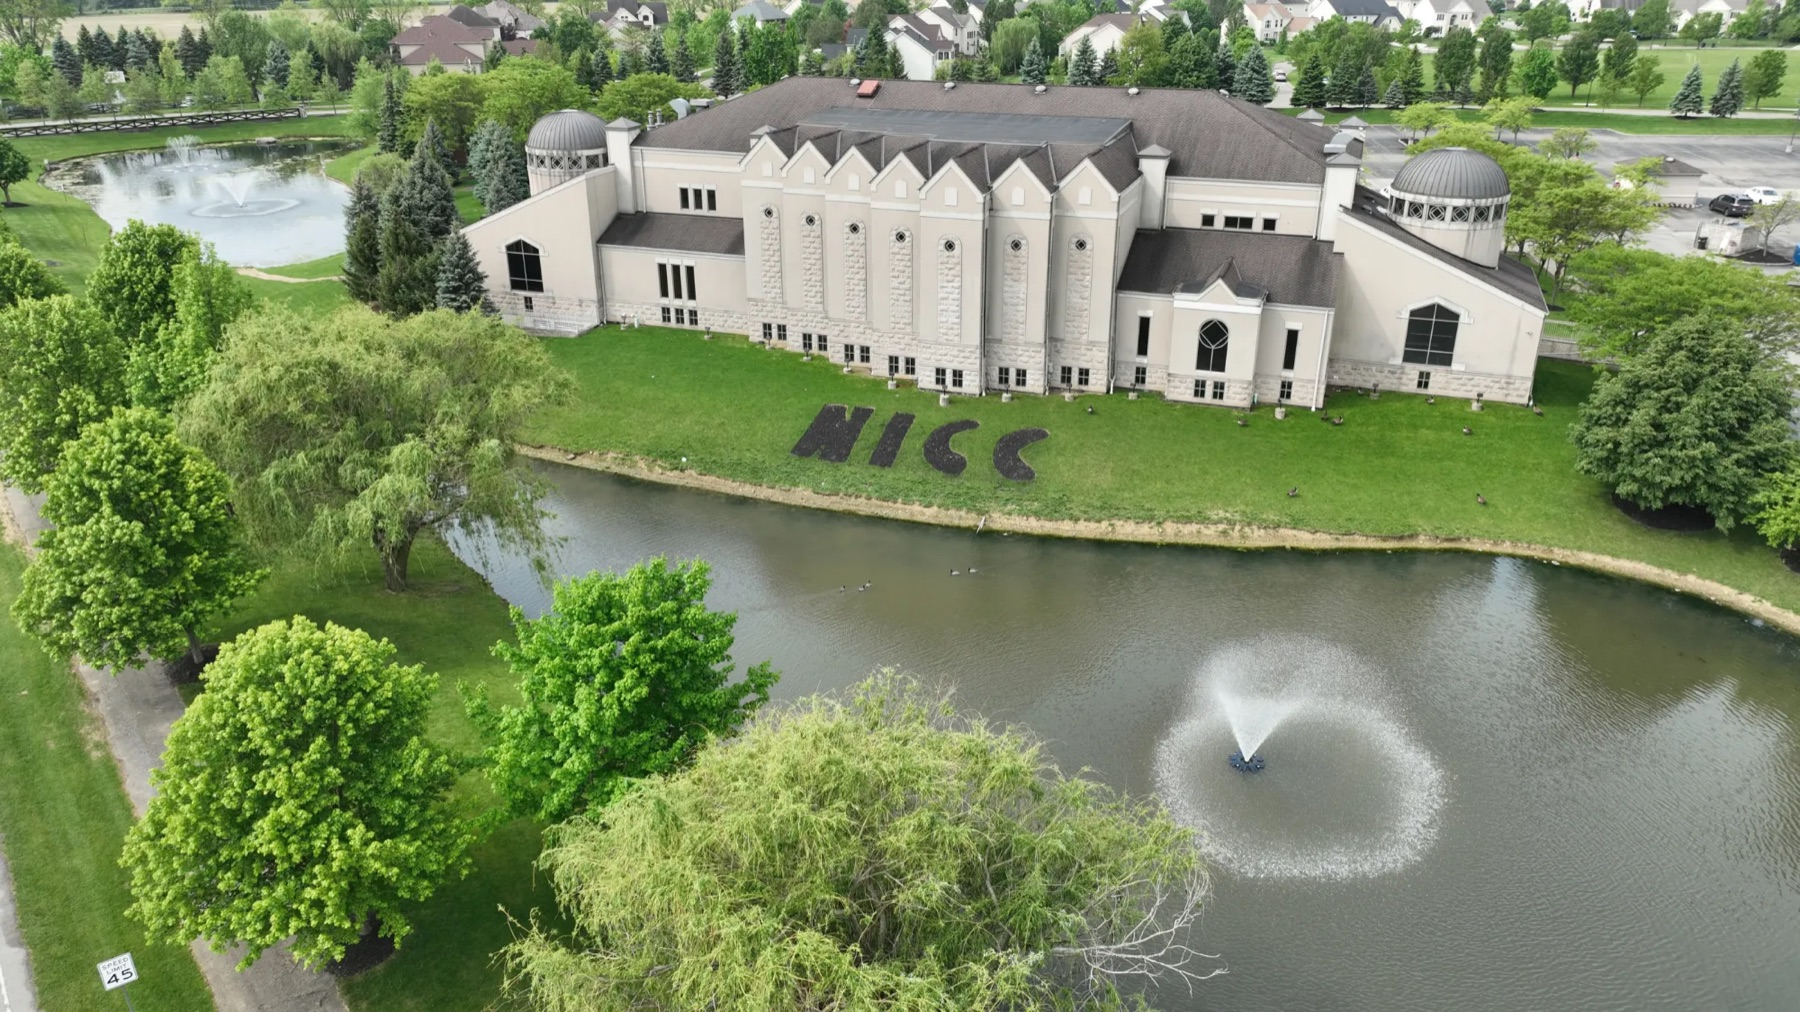
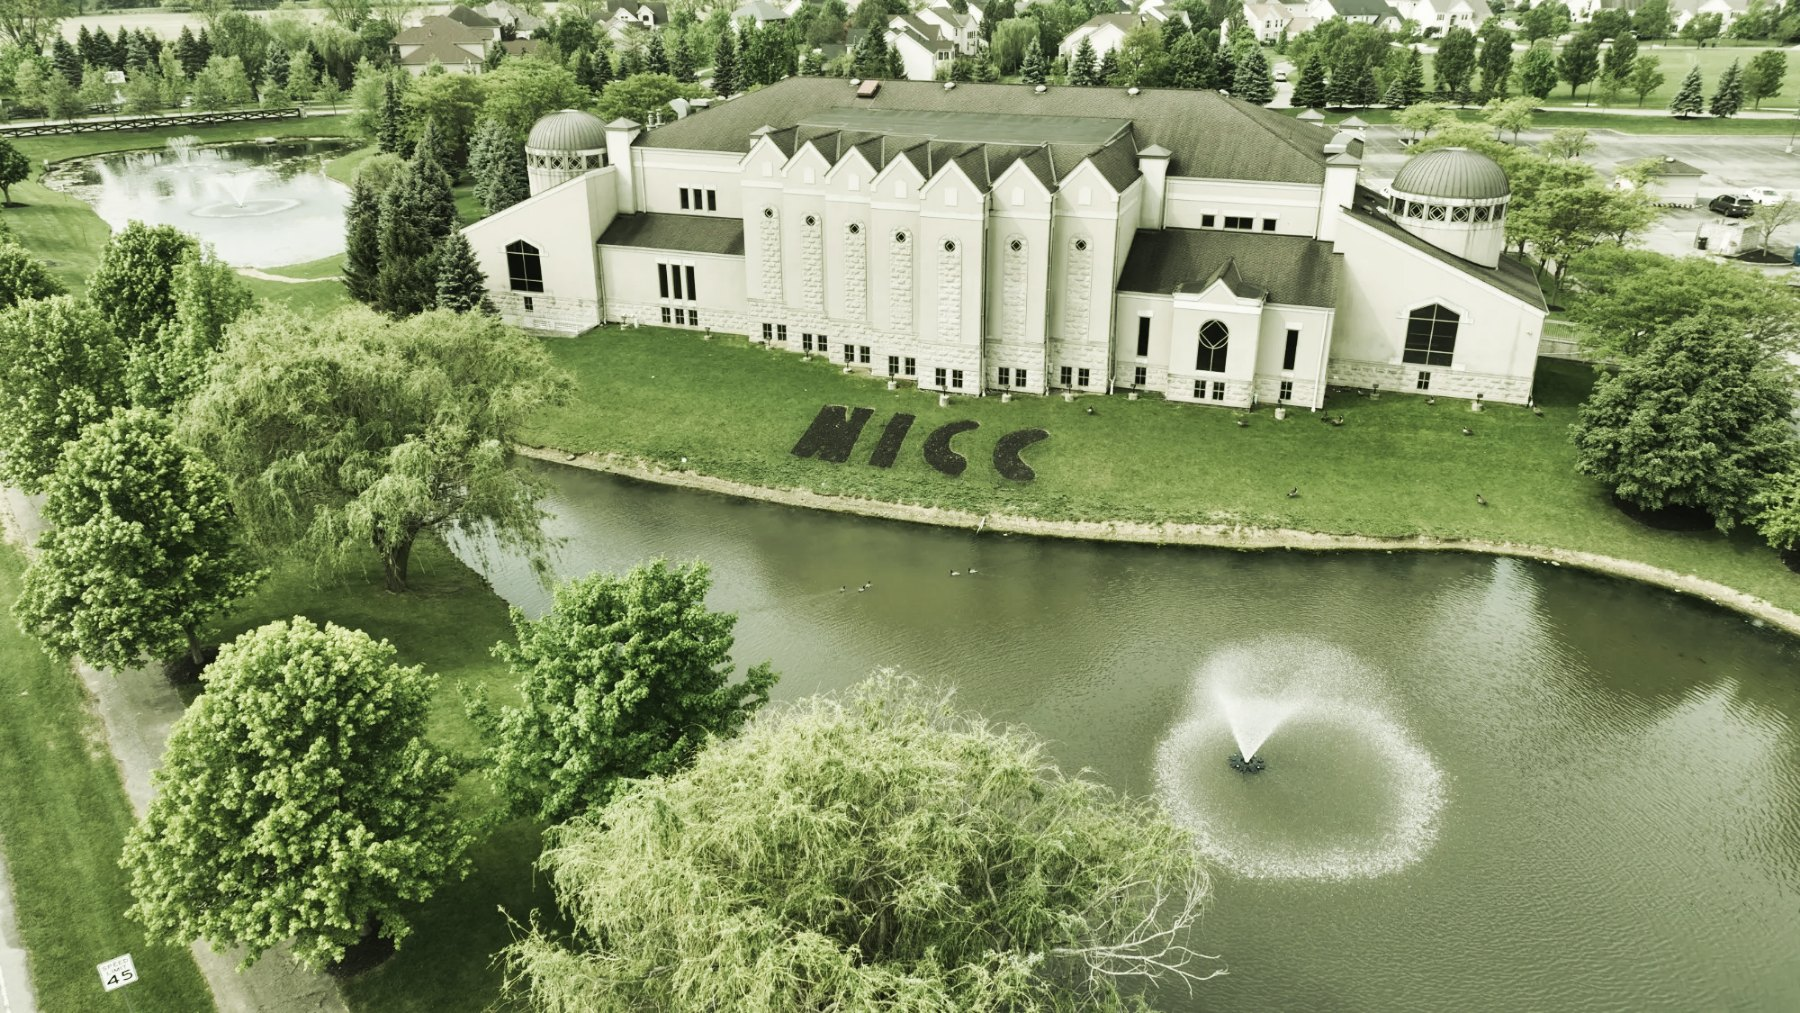
style: color-grade the hero photo to the olive/sage theme; restore the thinner 4:5 arch and fit more of the right dome

diff --git a/noor-business.html b/noor-business.html
@@ -409,8 +409,20 @@
   .hero-visual { position: relative; padding: 18px; }
   .hero-visual .pattern-bg { position: absolute; inset: 0; border-radius: 24px; }
   .hero-visual .pattern-bg::before { background-size: 140px 140px; opacity: calc(var(--pattern-opacity) * 1.6); }
-  .hero-photo { aspect-ratio: 9/10; }
+  .hero-photo { aspect-ratio: 4/5; background: var(--accent-soft); }
   .hero-photo img { object-position: 76% 50%; transform-origin: 80% 0; }
+  /* On desktop the photo sits a little lower in the tall arch and fades in
+     from the top, so the right dome clears the arch's curved corner. */
+  @media (min-width: 941px) {
+    .hero-photo img {
+      height: 84%; margin-top: 16%; object-position: 82% 50%; transform-origin: 72% 0;
+      -webkit-mask-image: linear-gradient(to bottom, transparent 0, #000 10%);
+      mask-image: linear-gradient(to bottom, transparent 0, #000 10%);
+    }
+  }
+  @media (min-width: 941px) and (prefers-reduced-motion: no-preference) {
+    .hero-visual .arch.hero-photo img { scale: 1.05; }
+  }
   .hero-float {
     position: absolute; left: 4px; bottom: 38px; background: var(--surface);
     border: 1px solid var(--hairline); border-radius: 18px; padding: 16px 18px;
